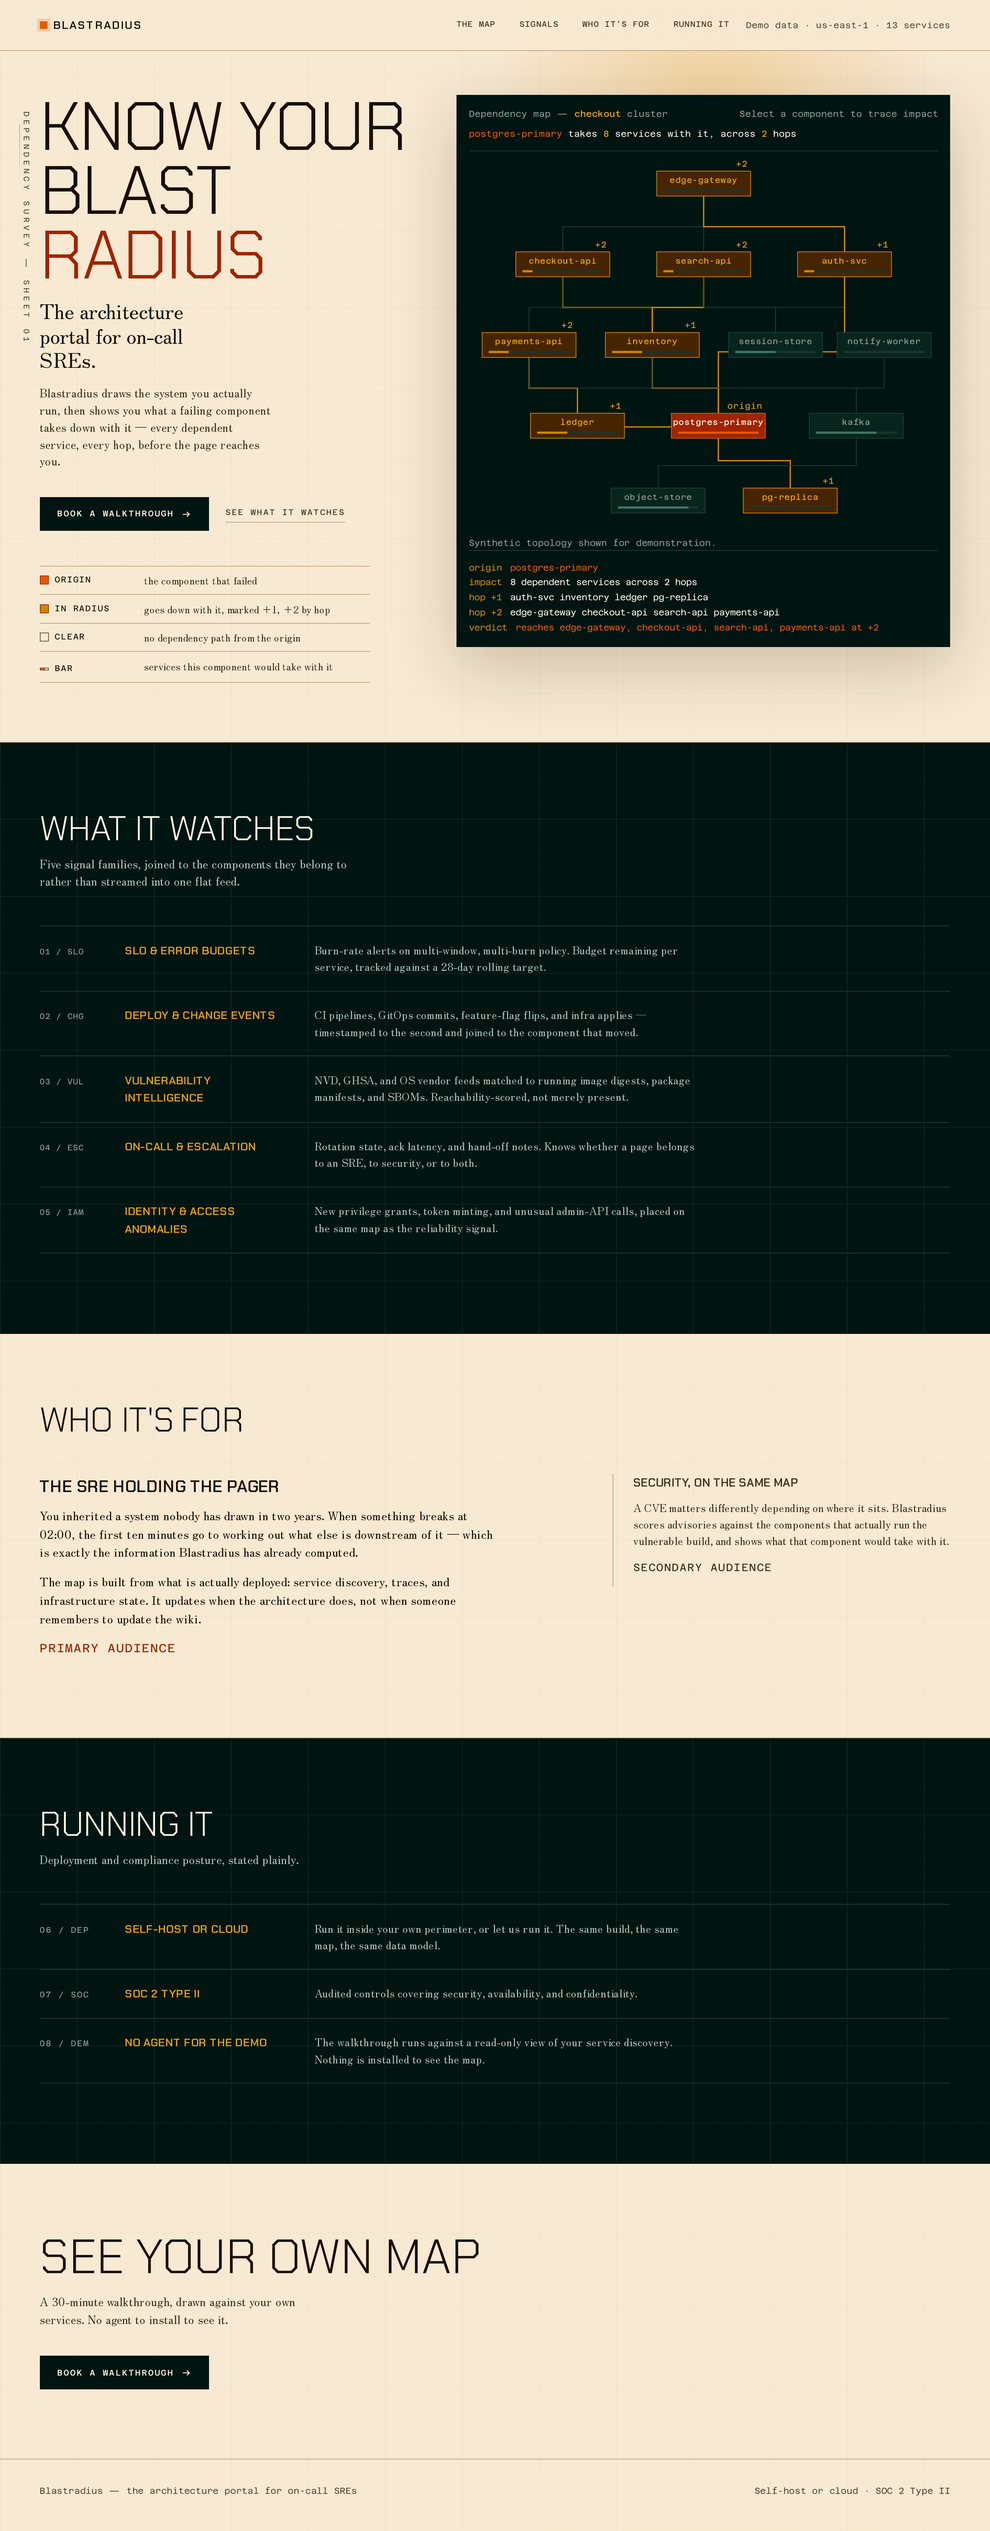
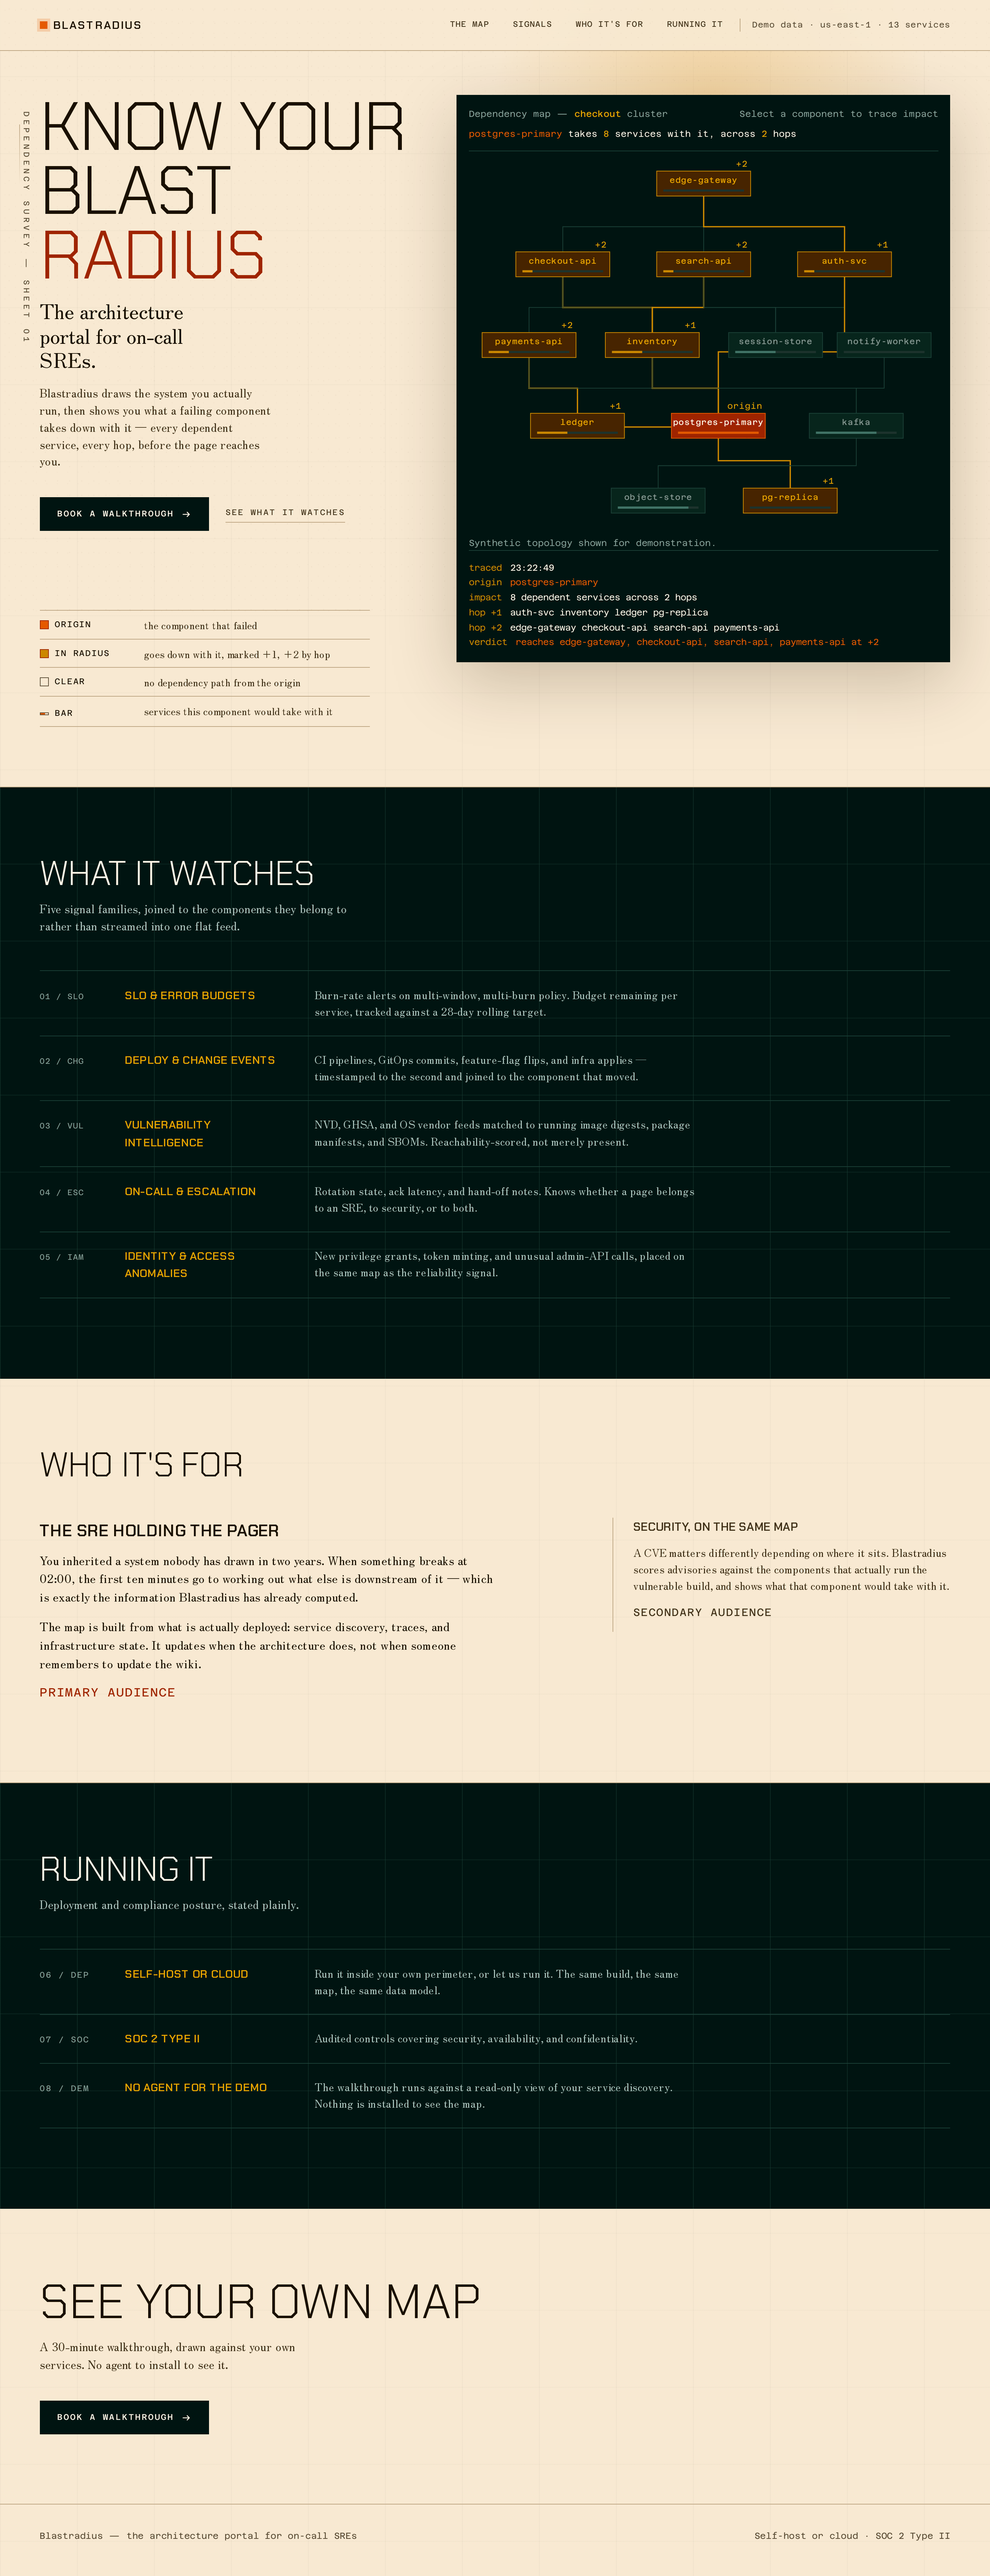
Close the four open finish-review items
The finish review's second verdict pass returned `fix` with two partial
items and three regressions. R1 (the inert CTA) was fixed on main; these
are the remaining four.

- Map telemetry below the legibility floor at mobile. `svg.map` carried
  `min-width: 540px` against a `0 0 640 512` viewBox, so below ~640px the
  map painted at 0.84 scale and node labels landed at ~9.3 CSS px. Match
  min-width to the viewBox width so the map never paints below 1:1 and its
  in-SVG type keeps the size it declares. Verified at 11px / 11.5px at 390.

- Legend arrived before the map it keys. Moved the legend out of
  `.hero-copy` to a third grid child placed after the plate in DOM order,
  with the plate spanning both rows so the legend still fills the void
  under the copy on desktop. Placement falls back to DOM order below
  1080px.

- Header status read as a fourth nav item. Dropping the uppercase to clear
  an all-caps-body finding had moved the string into the nav's voice.
  Separated with a hairline rule, an indent, and a size step rather than
  by restoring caps.

- Timestamp half of the Daylight Section raise was unbuilt. The readout
  now carries a real tabular-mono `traced` stamp taken at trace time.
  Clock reading, not invented propagation latencies.

diff --git a/index.html b/index.html
@@ -151,10 +151,14 @@
   .site-nav a:hover { color: var(--ink); border-bottom-color: var(--sun); }
   .header-status {
     font-family: var(--font-mono);
-    font-size: 0.78rem; letter-spacing: 0.04em;
+    font-size: 0.74rem; letter-spacing: 0.02em;
     color: var(--ash);
     font-variant-numeric: tabular-nums;
+    font-feature-settings: "tnum" 1;
     white-space: nowrap;
+    /* a rule and an indent, so this reads as instrument annotation and not a nav item */
+    padding-left: 1.1rem;
+    border-left: 1px solid var(--line);
   }
 
   /* ---------- hero ---------- */
@@ -172,6 +176,10 @@
   }
   /* grid items default to min-width:auto, which lets the map's min-width widen the page */
   .hero-grid > * { min-width: 0; }
+  /* the plate spans both rows so the legend lands in the void under the copy;
+     below 1080px placement falls back to DOM order, which puts it after the plate */
+  .hero-grid .plate { grid-column: 2; grid-row: 1 / span 2; }
+  .hero-grid .legend { grid-column: 1; grid-row: 2; }
 
   .rail {
     position: absolute;
@@ -251,7 +259,10 @@
   .action-quiet:hover { color: var(--sun-deep); border-bottom-color: var(--sun); }
 
   /* legend — the map's colour code, printed rather than learned by clicking */
+  /* third grid child: sits under the copy on desktop, after the plate on mobile,
+     so the key never arrives before the map it keys */
   .legend {
+    grid-column: 1;
     margin: clamp(2rem, 3.5vw, 3.25rem) 0 0;
     max-width: 30rem;
     border-top: 1px solid var(--line);
@@ -314,7 +325,9 @@
   .map-scroll { max-width: 100%; overflow-x: auto; overscroll-behavior-x: contain; }
   .pan-hint { display: none; color: var(--gold); }
   @media (max-width: 1080px) { .pan-hint { display: inline; } }
-  .plate svg.map { display: block; width: 100%; min-width: 540px; height: auto; }
+  /* min-width matches the viewBox width exactly, so the map never paints below 1:1
+     and its in-SVG type keeps the size it declares */
+  .plate svg.map { display: block; width: 100%; min-width: 640px; height: auto; }
 
   .node-box {
     fill: var(--night-soft);
@@ -535,6 +548,7 @@
   /* ---------- responsive ---------- */
   @media (max-width: 1080px) {
     .hero-grid { grid-template-columns: 1fr; }
+    .hero-grid .plate, .hero-grid .legend { grid-column: auto; grid-row: auto; }
     /* the governing axis turns into a sheet stamp rather than disappearing */
     .rail {
       position: static;
@@ -607,17 +621,6 @@
           </a>
           <a class="action-quiet" href="#signals">See what it watches</a>
         </div>
-
-        <dl class="legend">
-          <div><dt><span class="sw sw-origin" aria-hidden="true"></span>Origin</dt>
-               <dd>the component that failed</dd></div>
-          <div><dt><span class="sw sw-hit" aria-hidden="true"></span>In radius</dt>
-               <dd>goes down with it, marked +1, +2 by hop</dd></div>
-          <div><dt><span class="sw sw-clear" aria-hidden="true"></span>Clear</dt>
-               <dd>no dependency path from the origin</dd></div>
-          <div><dt><span class="sw sw-mag" aria-hidden="true"></span>Bar</dt>
-               <dd>services this component would take with it</dd></div>
-        </dl>
       </div>
 
       <div class="plate">
@@ -642,6 +645,17 @@
 
         <div class="plate-readout" id="readout" aria-live="polite"></div>
       </div>
+
+      <dl class="legend">
+        <div><dt><span class="sw sw-origin" aria-hidden="true"></span>Origin</dt>
+             <dd>the component that failed</dd></div>
+        <div><dt><span class="sw sw-hit" aria-hidden="true"></span>In radius</dt>
+             <dd>goes down with it, marked +1, +2 by hop</dd></div>
+        <div><dt><span class="sw sw-clear" aria-hidden="true"></span>Clear</dt>
+             <dd>no dependency path from the origin</dd></div>
+        <div><dt><span class="sw sw-mag" aria-hidden="true"></span>Bar</dt>
+             <dd>services this component would take with it</dd></div>
+      </dl>
     </div>
   </div>
 
@@ -914,6 +928,12 @@
 
   var reduced = window.matchMedia("(prefers-reduced-motion: reduce)").matches;
   var timers = [];
+  var tracedAt = null;
+
+  function stamp(d) {
+    function p(n) { return (n < 10 ? "0" : "") + n; }
+    return p(d.getHours()) + ":" + p(d.getMinutes()) + ":" + p(d.getSeconds());
+  }
 
   function clearTimers() {
     timers.forEach(clearTimeout);
@@ -924,6 +944,7 @@
   // so the plate is never blank while it is still below the fold
   function trace(origin, primeOnly) {
     clearTimers();
+    tracedAt = new Date();
 
     NODES.forEach(function (n) {
       var g = nodeEls[n.id].g;
@@ -982,6 +1003,7 @@
     }
 
     var lines = [];
+    lines.push(row("traced", tracedAt ? stamp(tracedAt) : "—"));
     lines.push(row("origin", origin, "sev"));
     lines.push(row("impact", total === 0
       ? "no dependent services"
